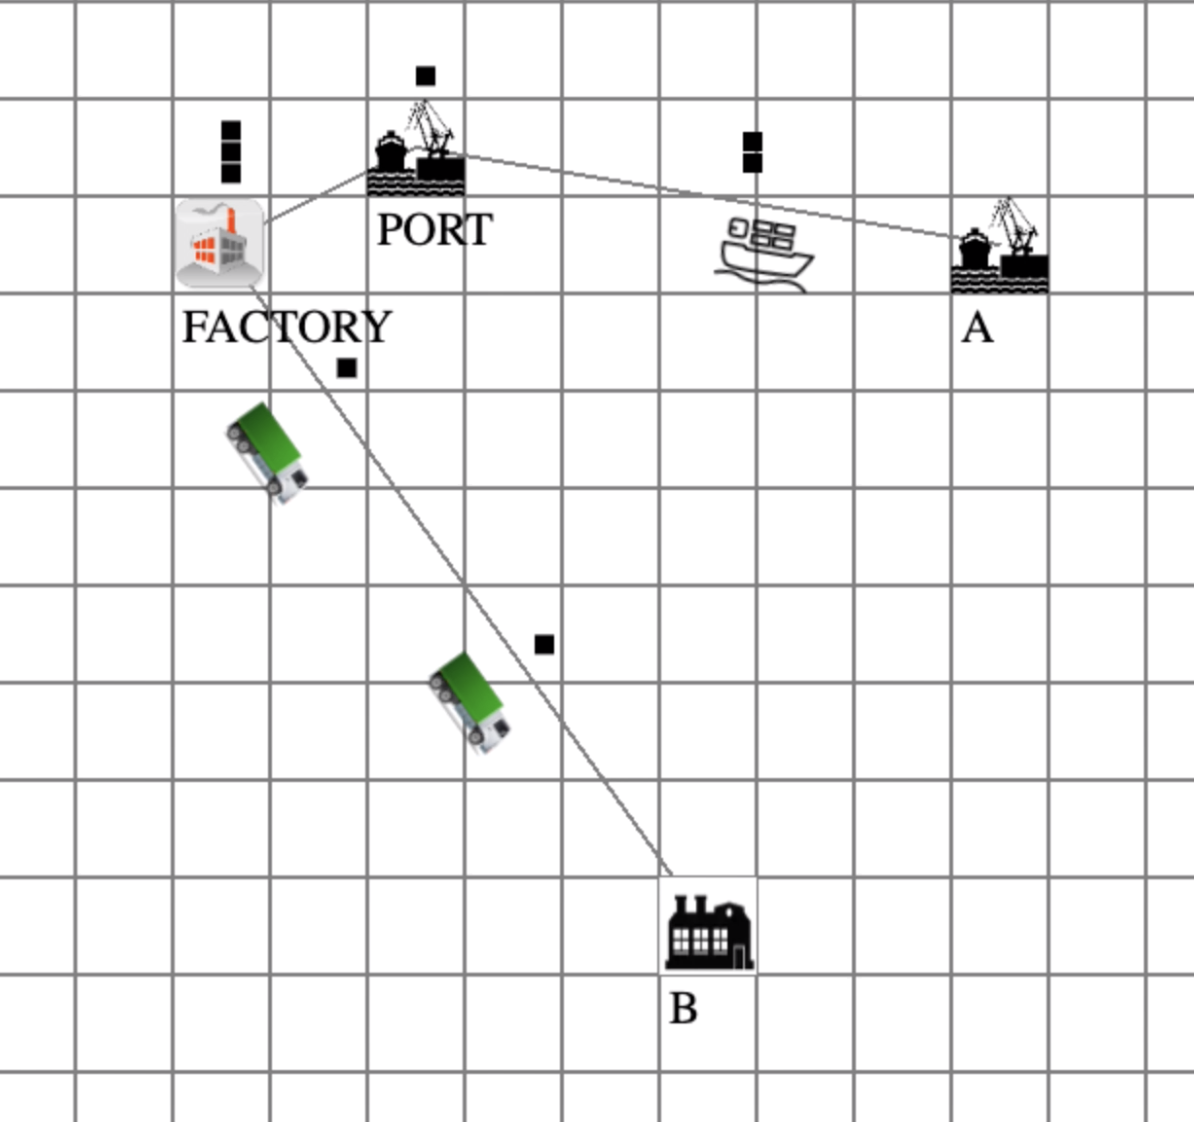
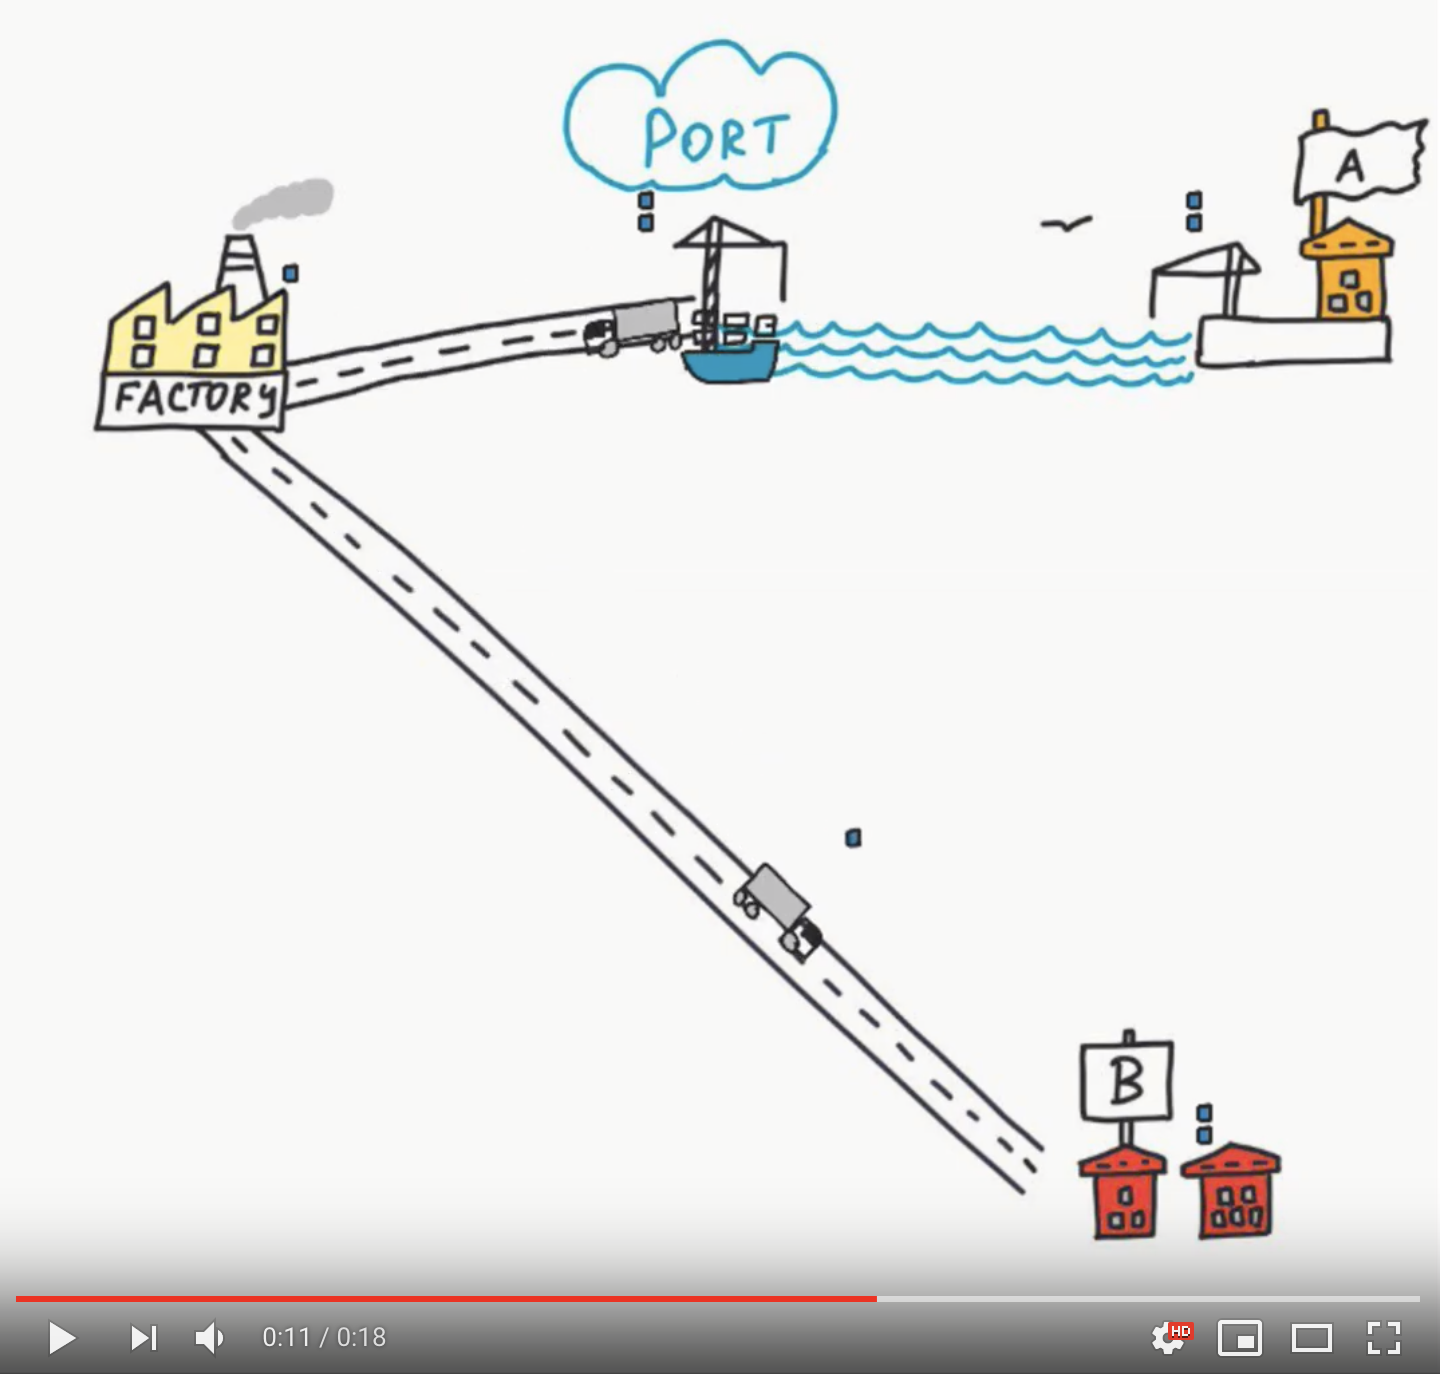
update pictures

Changed region(s): [[0.0, 0.0, 1.0, 1.0]]

diff --git a/index.html b/index.html
@@ -8,7 +8,7 @@
 <table>
     <tr>
         <td valign="top">
-            <canvas id="canvas" width="800" height="800"></canvas>
+            <canvas id="canvas" width="820" height="820"></canvas>
         </td>
         <td valign="top" style="font-size: 12px;">
             <ol id="log"></ol>
@@ -18,9 +18,9 @@
 
 
 <script type="application/javascript">
-    var bw = 800;
+    var bw = 820;
     // Box height
-    var bh = 800;
+    var bh = 820;
 
     var delta = 50;
 
@@ -41,19 +41,20 @@
         context.stroke();
     }
 
+    function drawBackground(x, y, w, h, image) {
+        context.drawImage(image, x * delta, y * delta, w*delta, h*delta);
+    }
 
     function drawWarehouse(x, y, color, name, image, cargos) {
-        context.drawImage(image, x * delta, y * delta, delta, delta);
+        //context.drawImage(image, x * delta, y * delta, delta, delta);
 
         for (j = 0; j < cargos; j++) {
-            context.fillStyle = "black";
-            context.fillRect(x * delta + delta / 2, y * delta - delta / 3 - 11 * j, 10, 10);
+            context.drawImage(cargo_img, x * delta + delta / 2, y * delta - delta / 3 - 11 * j, 10, 10);
         }
 
-
-        context.fillStyle = "black";
-        context.font = '24px serif';
-        context.fillText(name, x * delta + 0.1 * delta, y * delta + 1.5 * delta);
+        // context.fillStyle = "black";
+        // context.font = '24px serif';
+        // context.fillText(name, x * delta + 0.1 * delta, y * delta + 1.5 * delta);
     }
 
     function drawRoute(x1, y1, x2, y2) {
@@ -84,8 +85,7 @@
 
 
         for (j = 0; j < cargo_count; j++) {
-            context.fillStyle = "black";
-            context.fillRect(x0 + delta / 2, y0 - 11 * j, 10, 10);
+            context.drawImage(cargo_img, x0 + delta / 2, y0 - 11 * j, 10, 10);
         }
 
         context.save();
@@ -103,10 +103,10 @@
     }
 
     var warehouses = [
-        {"name": "FACTORY", "x": 4, "y": 4, "picture": 'fabrica.png', "cargos": 8, "image": new Image()},
-        {"name": "PORT", "x": 6, "y": 3, "picture": 'port.png', "cargos": 0, "image": new Image()},
-        {"name": "A", "x": 12, "y": 4, "picture": 'port.png', "cargos": 0, "image": new Image()},
-        {"name": "B", "x": 9, "y": 11, "picture": 'warehouse.png', "cargos": 0, "image": new Image()}];
+        {"name": "FACTORY", "x": 4.5, "y": 5.5, "picture": 'factory.png', "cargos": 8, "image": new Image()},
+        {"name": "PORT", "x": 8, "y": 5, "picture": 'port.png', "cargos": 0, "image": new Image()},
+        {"name": "A", "x": 13.4, "y": 5, "picture": 'warehouse_a.png', "cargos": 0, "image": new Image()},
+        {"name": "B", "x": 13.5, "y": 14, "picture": 'warehouse_b.png', "cargos": 0, "image": new Image()}];
 
     warehouses.forEach(function (item, i, arr) {
         item["image"].src = item["picture"];
@@ -122,11 +122,16 @@
         {"kind": "FERRY", "direction": "left", "image": new Image()},
         {"kind": "FERRY", "direction": "right", "image": new Image()},
     ];
-    transport_kind[0]["image"].src = "truck_l_e.png";
-    transport_kind[1]["image"].src = "truck_r_e.png";
-    transport_kind[2]["image"].src = "ferry_l_e.png";
-    transport_kind[3]["image"].src = "ferry_r_e.png";
-
+    transport_kind[0]["image"].src = "truck_left.png";
+    transport_kind[1]["image"].src = "truck_right.png";
+    transport_kind[2]["image"].src = "ship_left.png";
+    transport_kind[3]["image"].src = "ship_right.png";
+    
+    var back=new Image();
+    back.src="back.jpg";
+    
+    var cargo_img = new Image();
+    cargo_img.src="cargo.png";
 
     let time = 0;
     let readIndex = 0;
@@ -134,7 +139,8 @@
 
     let timerId = setInterval(function () {
         context.clearRect(0, 0, canvas.width, canvas.height);
-        drawBoard();
+        drawBackground(0,0,17,17, back);
+        //drawBoard();
 
 
         routes.forEach(function (item, i, arr) {
@@ -145,7 +151,7 @@
                 return x['name'] == item['End'];
             })[0];
 
-            drawRoute(bwh["x"], bwh["y"], ewh["x"], ewh["y"]);
+            //drawRoute(bwh["x"], bwh["y"], ewh["x"], ewh["y"]);
         });
 
 
@@ -219,10 +225,10 @@
         for (var key in move) {
             percent = 100 * (time - move[key]["Start"]) / (move[key]["Finish"] - move[key]["Start"]);
 
-            if (percent < 0)
-                percent = 0;
-            if (percent > 100)
-                percent = 100;
+            if (percent < 10)
+                percent = 10;
+            if (percent > 90)
+                percent = 90;
             drawTransport(move[key]["image"], move[key]["Begin"], move[key]["End"], percent, padding, move[key]["Cargos"]);
             padding += 10
         }
